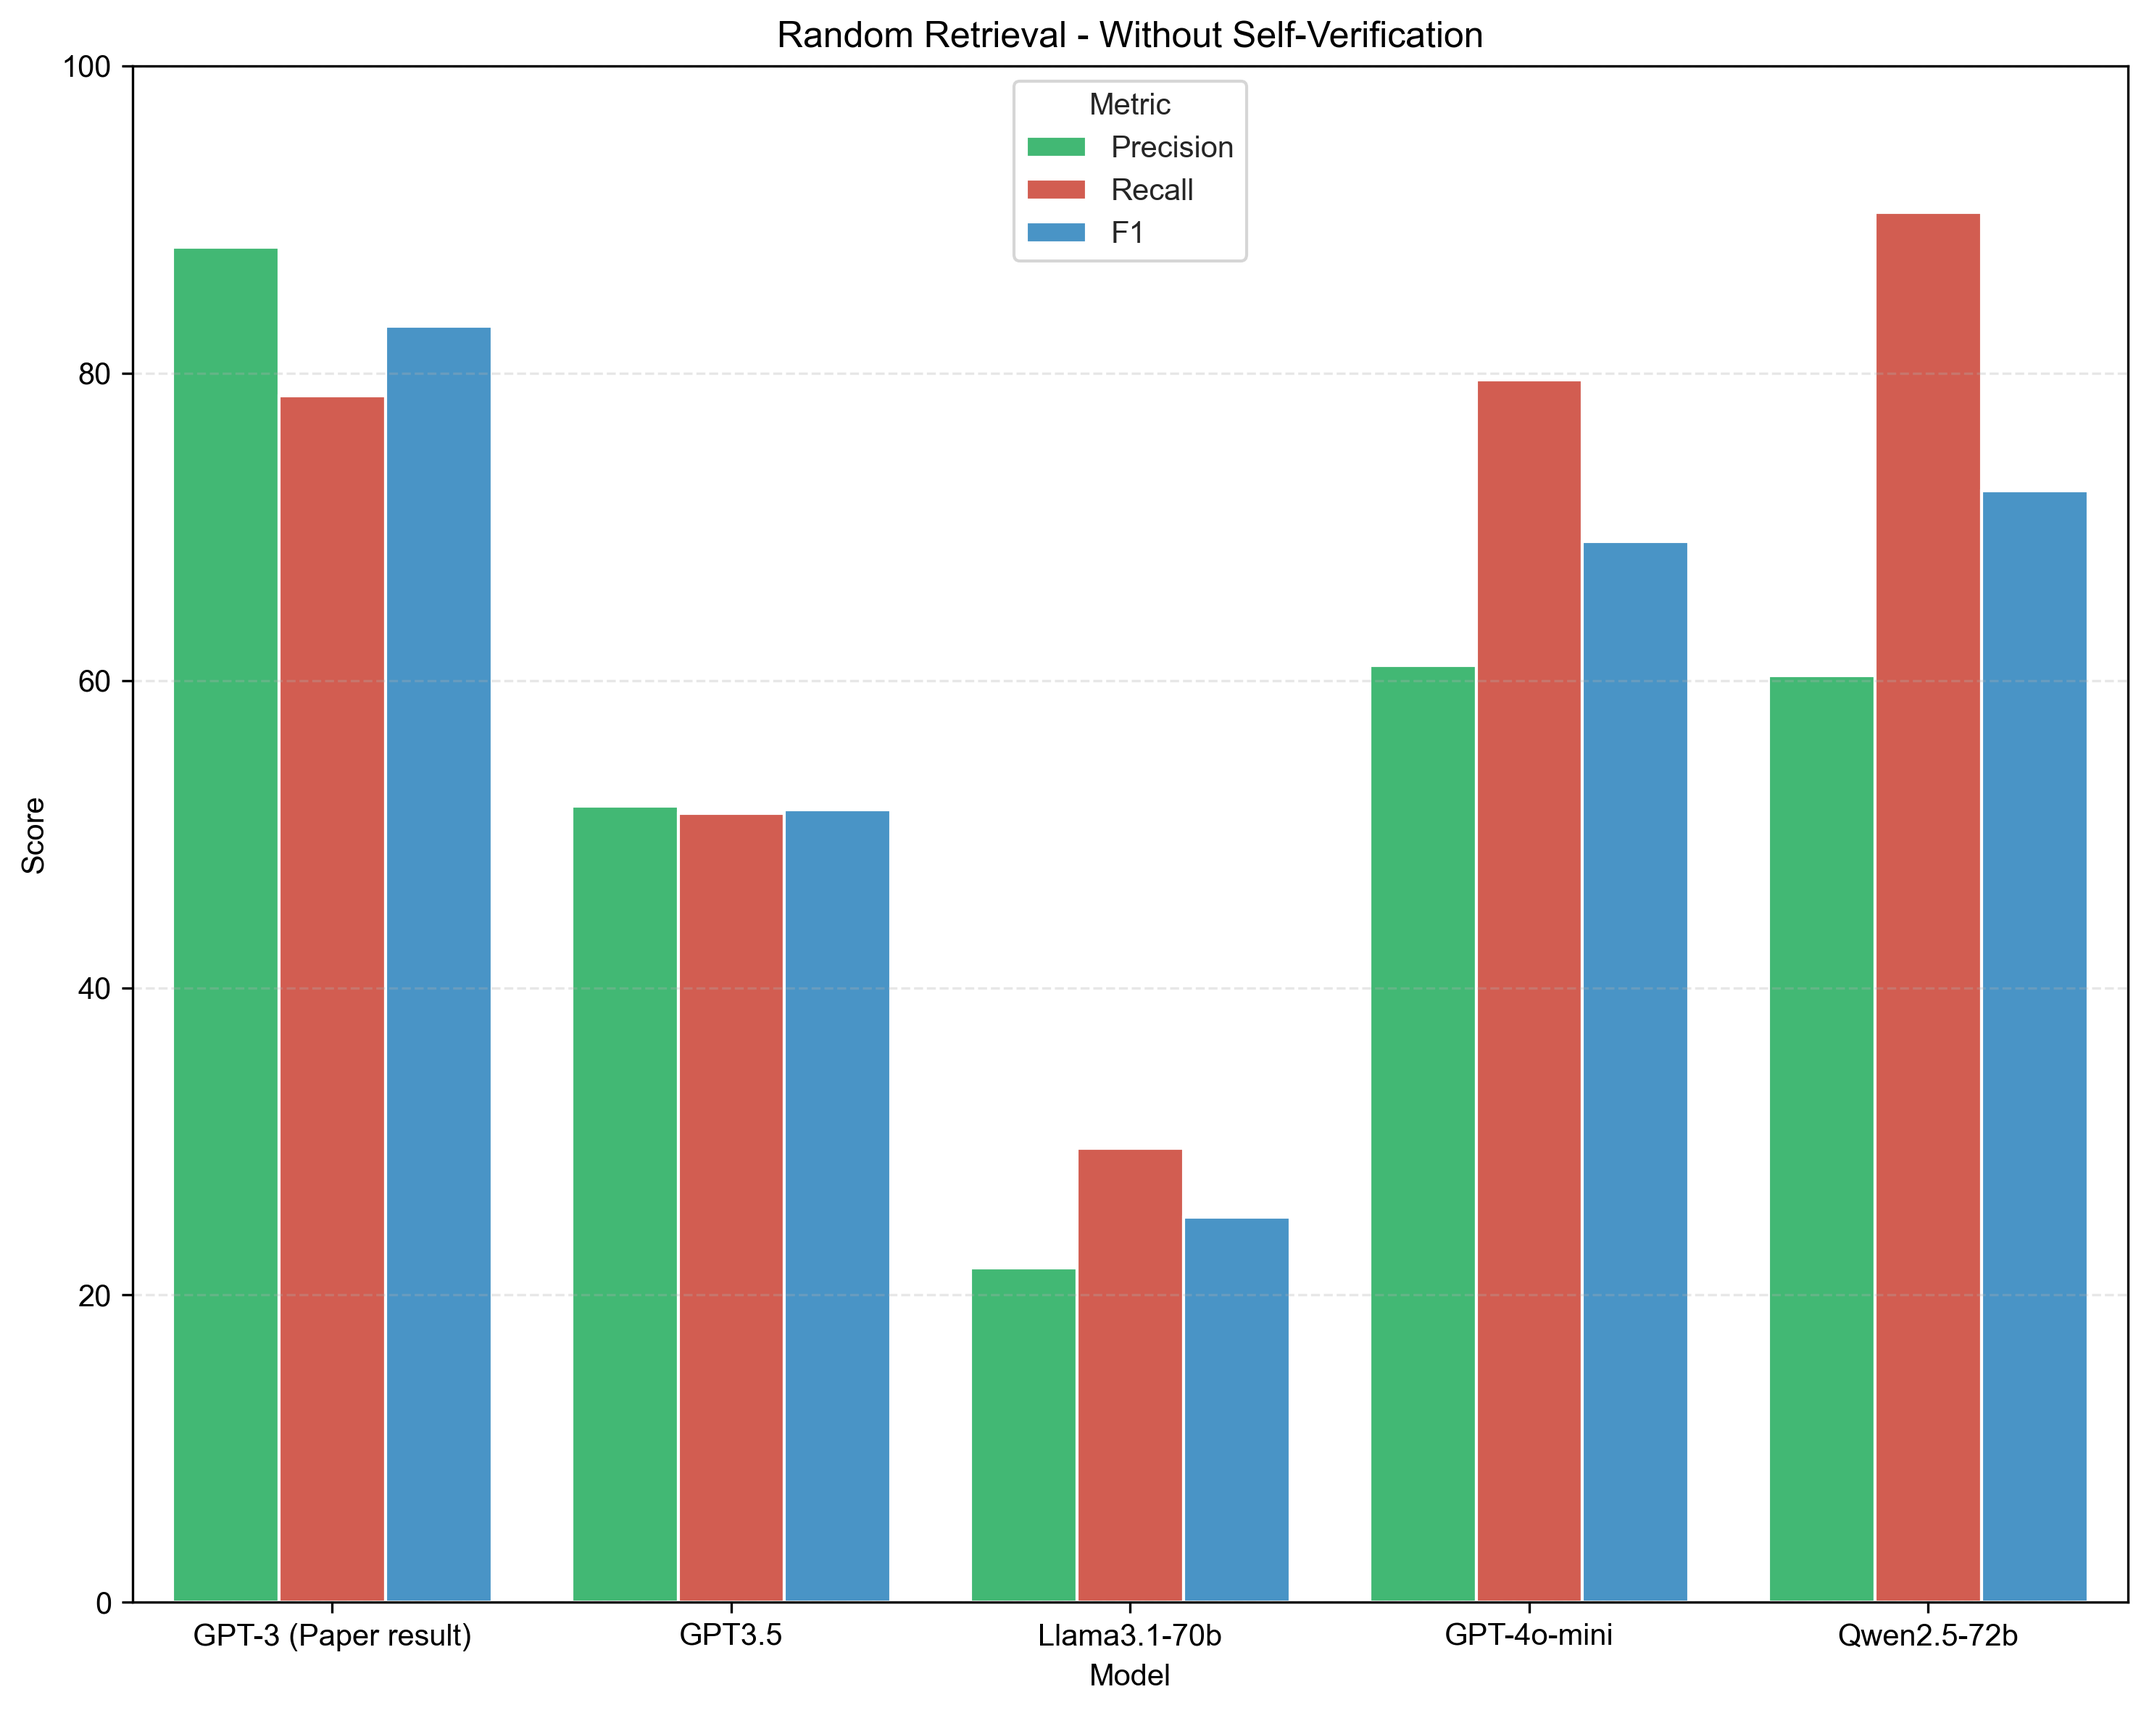
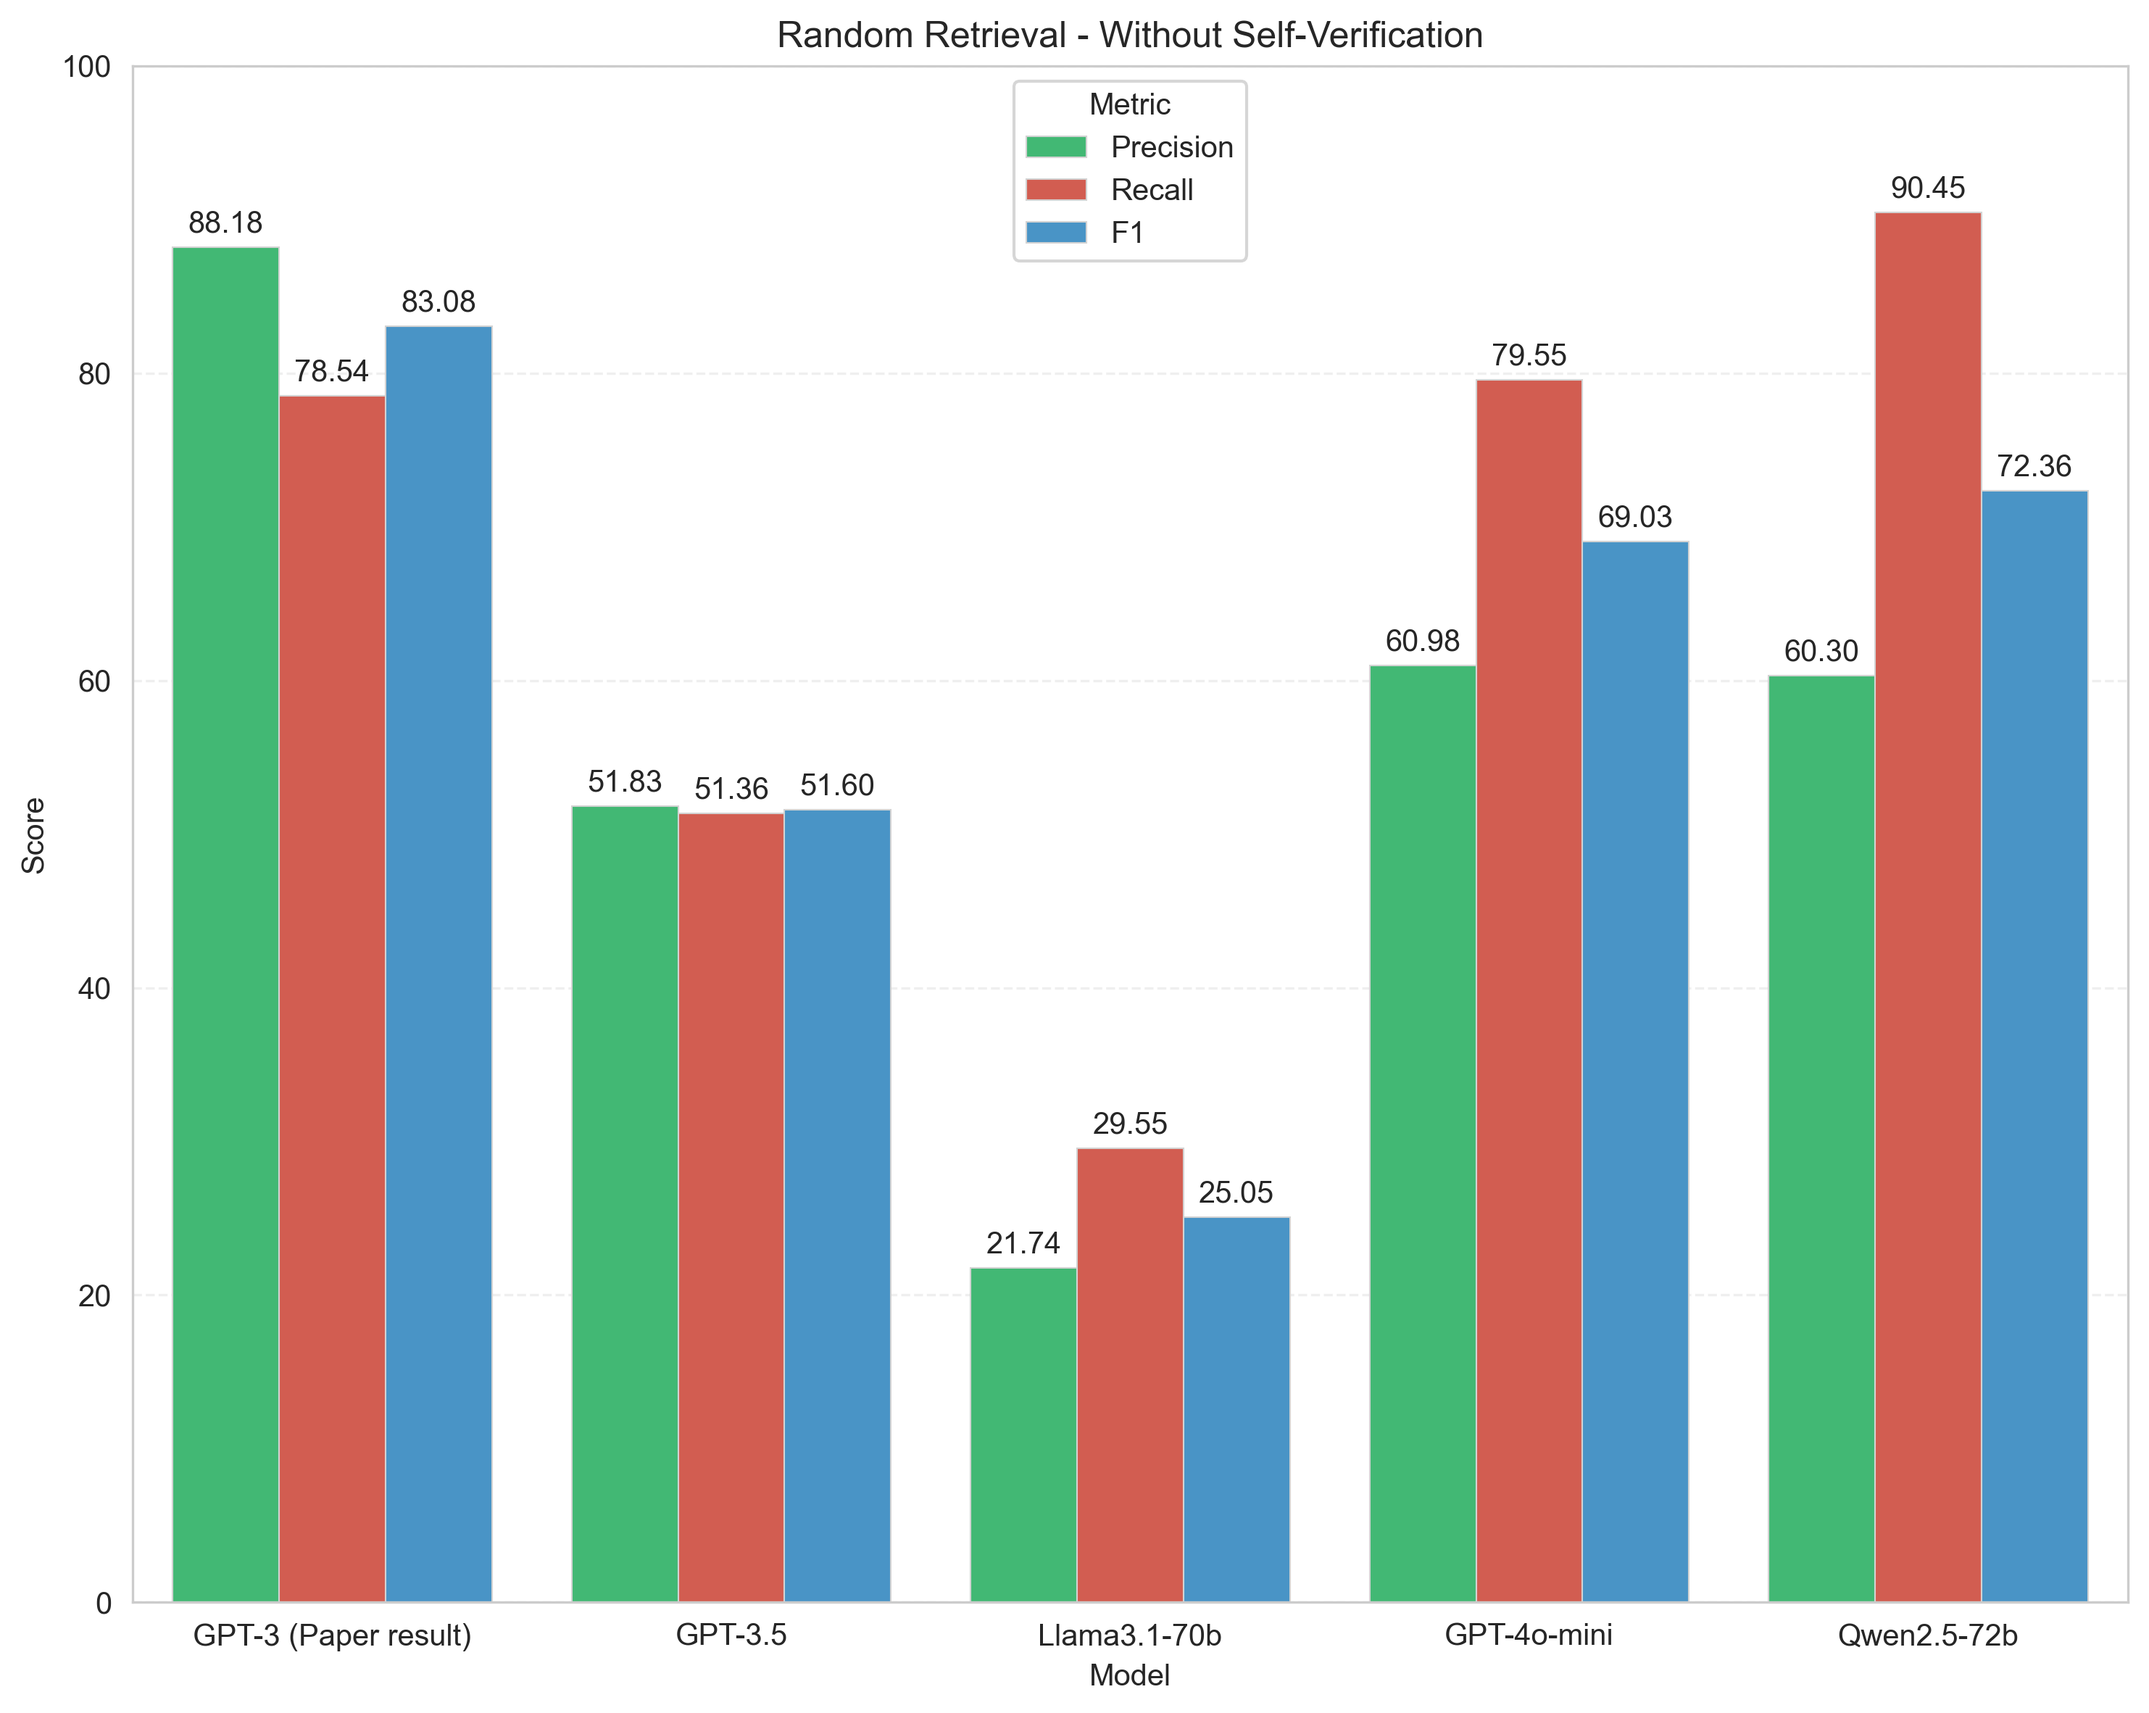
graph updates

diff --git a/results/plot.py b/results/plot.py
@@ -8,7 +8,7 @@ CONLL_RESULTS = {
     'Random': {
         'without_verification': {
             'GPT-3 (Paper result)': {'Precision': 88.18, 'Recall': 78.54, 'F1': 83.08},
-            'GPT3.5': {'Precision': 51.83, 'Recall': 51.36, 'F1': 51.6},
+            'GPT-3.5': {'Precision': 51.83, 'Recall': 51.36, 'F1': 51.6},
             'Llama3.1-70b': {'Precision': 21.74, 'Recall': 29.55, 'F1': 25.05},
             'GPT-4o-mini': {'Precision': 60.98, 'Recall': 79.55, 'F1': 69.03},
             #'GPT-4': {'Precision': 61.51, 'Recall': 88.64, 'F1': 72.63},
@@ -16,22 +16,22 @@ CONLL_RESULTS = {
 	        #'Qwen2.5-14b': {'Precision': 28.89, 'Recall':5.91, 'F1': 9.81}
         },
         'with_verification': {
-            'GPT-3': {'Precision': 88.95, 'Recall': 79.73, 'F1': 84.34},
-            'GPT3.5': {'Precision': 58.55, 'Recall': 51.36, 'F1': 54.72}
+            'GPT-3 (Paper result)': {'Precision': 88.95, 'Recall': 79.73, 'F1': 84.34},
+            'GPT-3.5': {'Precision': 58.55, 'Recall': 51.36, 'F1': 54.72}
         }
     },
     'Sentence': {
         'without_verification': {
             'GPT-3 (Paper result)': {'Precision': 90.47, 'Recall': 95.00, 'F1': 92.68},
-            'GPT3.5': {'Precision': 73.42, 'Recall': 79.09, 'F1': 76.15},
+            'GPT-3.5': {'Precision': 73.42, 'Recall': 79.09, 'F1': 76.15},
             'Llama3.1-70b': {'Precision': 29.59, 'Recall': 13.18, 'F1': 18.23},
             'GPT-4o-mini': {'Precision': 60.55, 'Recall': 79.55, 'F1': 68.76},
             'Qwen2.5-72b': {'Precision': 74.82, 'Recall': 94.54, 'F1': 83.53},
             #'Qwen2.5-14b': {'Precision': 51.22, 'Recall': 9.55, 'F1': 16.09}
         },
         'with_verification': {
-            'GPT-3': {'Precision': 91.77, 'Recall': 96.36, 'F1': 94.01},
-            'GPT3.5': {'Precision': 80.55, 'Recall': 79.09, 'F1': 79.82}
+            'GPT-3 (Paper result)': {'Precision': 91.77, 'Recall': 96.36, 'F1': 94.01},
+            'GPT-3.5': {'Precision': 80.55, 'Recall': 79.09, 'F1': 79.82}
         }
     }
 }
@@ -71,7 +71,13 @@ HISTORICAL_RESULTS_ANNOTATORS = {
     }
 }
 
-
+def reset_plot_style():
+    """Completely reset matplotlib state and set consistent style."""
+    plt.close('all')  # Close all existing figures
+    plt.rcdefaults()  # Reset to defaults
+    plt.figure().clear()  # Clear any existing figure
+    plt.close()  # Close it
+    sns.set_style("whitegrid")  # Set the style consistently
 
 
 def create_dataframe_from_results(results_dict):
@@ -110,8 +116,115 @@ def create_dataframe_from_annotator_results(results_dict):
     
     return pd.DataFrame(rows)
 
+def plot_verification_side_by_side(df, output_dir='graphs', format='png', dpi=300):
+    """Create plots showing with/without verification results side by side."""
+    reset_plot_style()
+    
+    # Get models that appear in both verification conditions for fair comparison
+    with_verification_models = set(df[df['Verification'] == 'with_verification']['Model'].unique())
+    without_verification_models = set(df[df['Verification'] == 'without_verification']['Model'].unique())
+    common_models = list(with_verification_models & without_verification_models)
+    
+    # Filter to include only the common models
+    filtered_df = df[df['Model'].isin(common_models)].copy()
+    
+    # Add verification status to model names
+    filtered_df.loc[filtered_df['Verification'] == 'with_verification', 'Model'] = \
+        filtered_df.loc[filtered_df['Verification'] == 'with_verification', 'Model'] + ' (With Ver.)'
+    filtered_df.loc[filtered_df['Verification'] == 'without_verification', 'Model'] = \
+        filtered_df.loc[filtered_df['Verification'] == 'without_verification', 'Model'] + ' (No Ver.)'
+    
+    # Create a single plot for each method
+    for method in ['Random', 'Sentence']:
+        method_data = filtered_df[filtered_df['Method'] == method]
+        
+        fig, ax = plt.subplots(figsize=(12, 8))
+        sns.set_style("whitegrid")
+        
+        # Create barplot with all the data
+        bars = sns.barplot(
+            data=method_data,
+            x='Model', y='Score', hue='Metric',
+            palette={'Precision': '#2ecc71', 'Recall': '#e74c3c', 'F1': '#3498db'},
+            ax=ax,
+            errorbar=None,
+            edgecolor='lightgray',
+            linewidth=0.5
+        )
+        
+        # Add value labels on top of each bar
+        for container in ax.containers:
+            ax.bar_label(container, fmt='%.2f', padding=3)
+        
+        ax.set_title(f'Impact of Self-Verification on {method} Retrieval')
+        ax.set_ylim(0, 105)
+        ax.grid(True, axis='y', linestyle='--', alpha=0.3)
+        ax.legend(title='Metric')
+        ax.tick_params(axis='x')
+        
+        plt.tight_layout()
+        
+        # Save to file
+        filename = f'verification_impact_{method.lower()}.{format}'
+        filepath = os.path.join(output_dir, filename)
+        fig.savefig(filepath, dpi=dpi, bbox_inches='tight', format=format)
+        plt.close(fig)
+        print(f"Saved verification impact plot to: {filepath}")
+
+
+def plot_conll_comparison(df, output_dir='graphs', format='png', dpi=300):
+    """Create focused comparison plots between Paper (GPT-3) and GPT-3.5 results."""
+    plt.rcdefaults()
+    # Filter data to include only GPT-3 (Paper) and GPT-3.5
+    target_models = ['GPT-3 (Paper result)', 'GPT-3.5']
+    filtered_df = df[df['Model'].isin(target_models)]
+    
+    for verification_status in ['without_verification', 'with_verification']:
+        title_suffix = "With Self-Verification" if verification_status == "with_verification" else "Without Self-Verification"
+        
+        for method in ['Random', 'Sentence']:
+            # Skip if no data available for this combination
+            data = filtered_df[(filtered_df['Method'] == method) & (filtered_df['Verification'] == verification_status)]
+            if data.empty:
+                continue
+                
+            # Create figure
+            fig, ax = plt.subplots(figsize=(8, 6))
+            sns.set_style("whitegrid")
+            
+            # Create bar plot
+            bars = sns.barplot(
+                data=data,
+                x='Model', y='Score', hue='Metric',
+                palette={'Precision': '#2ecc71', 'Recall': '#e74c3c', 'F1': '#3498db'},
+                ax=ax,
+                errorbar=None,
+                edgecolor='lightgray',
+                linewidth=0.5
+            )
+            
+            # Add value labels on top of each bar
+            for container in ax.containers:
+                ax.bar_label(container, fmt='%.2f', padding=3)
+            
+            ax.set_title(f'GPT-3 vs GPT-3.5: {method} Retrieval - {title_suffix}')
+            ax.set_ylim(0, 105)  # Increased to make room for labels
+            ax.grid(True, axis='y', linestyle='--', alpha=0.3)
+            ax.legend(title='Metric')
+            ax.tick_params(axis='x', rotation=0)
+        
+            plt.tight_layout()
+            
+            # Save to file
+            filename = f'conll_comparison_{method.lower()}_{verification_status.replace("_", "-")}.{format}'
+            filepath = os.path.join(output_dir, filename)
+            fig.savefig(filepath, dpi=dpi, bbox_inches='tight', format=format)
+            plt.close(fig)
+            print(f"Saved comparison plot to: {filepath}")
+
 def plot_conll_results(df, output_dir='graphs', format='png', dpi=300):
     """Create and save plots for CoNLL results, with each method in a separate file."""
+    reset_plot_style()
     for verification_status in ['without_verification', 'with_verification']:
         title_suffix = "With Self-Verification" if verification_status == "with_verification" else "Without Self-Verification"
         
@@ -122,13 +235,23 @@ def plot_conll_results(df, output_dir='graphs', format='png', dpi=300):
             
             data = df[(df['Method'] == method) & (df['Verification'] == verification_status)]
             
-            sns.barplot(
+            # Create barplot
+            bars = sns.barplot(
                 data=data,
                 x='Model', y='Score', hue='Metric',
                 palette={'Precision': '#2ecc71', 'Recall': '#e74c3c', 'F1': '#3498db'},
                 ax=ax,
                 errorbar=None
             )
+            
+            # Manually set all bar edge colors and widths
+            for patch in ax.patches:
+                patch.set_edgecolor('lightgray')
+                patch.set_linewidth(0.5)
+            
+            # Add value labels on top of each bar
+            for container in ax.containers:
+                ax.bar_label(container, fmt='%.2f', padding=3)
             
             ax.set_title(f'{method} Retrieval - {title_suffix}')
             ax.set_ylim(0, 100)
@@ -147,6 +270,7 @@ def plot_conll_results(df, output_dir='graphs', format='png', dpi=300):
 
 def plot_cnec_results(df, output_dir='graphs', format='png', dpi=300):
     """Create and save plots for CNEC results."""
+    plt.rcdefaults()
     fig, ax = plt.subplots(figsize=(10, 8))
     sns.set_style("whitegrid")
     
@@ -157,7 +281,9 @@ def plot_cnec_results(df, output_dir='graphs', format='png', dpi=300):
         x='Model', y='Score', hue='Metric',
         palette={'Precision': '#2ecc71', 'Recall': '#e74c3c', 'F1': '#3498db'},
         ax=ax,
-        errorbar=None
+        errorbar=None,
+        edgecolor='lightgray', 
+        linewidth=0.5  
     )
     
     ax.set_title('CNEC Dataset - Random Retrieval')
@@ -266,6 +392,8 @@ plot_conll_results(df_conll, format='png')
 plot_cnec_results(df_cnec, format='png')
 plot_historical_results(df_historical, format='png')
 plot_historical_annotator_results(df_historical_annotators, format='png')
+plot_conll_comparison(df_conll, format='png')
+plot_verification_side_by_side(df_conll, format='png')
 
 export_results_to_csv(df_conll)
 export_results_to_csv(df_cnec, 'graphs/cnec_results.csv')
